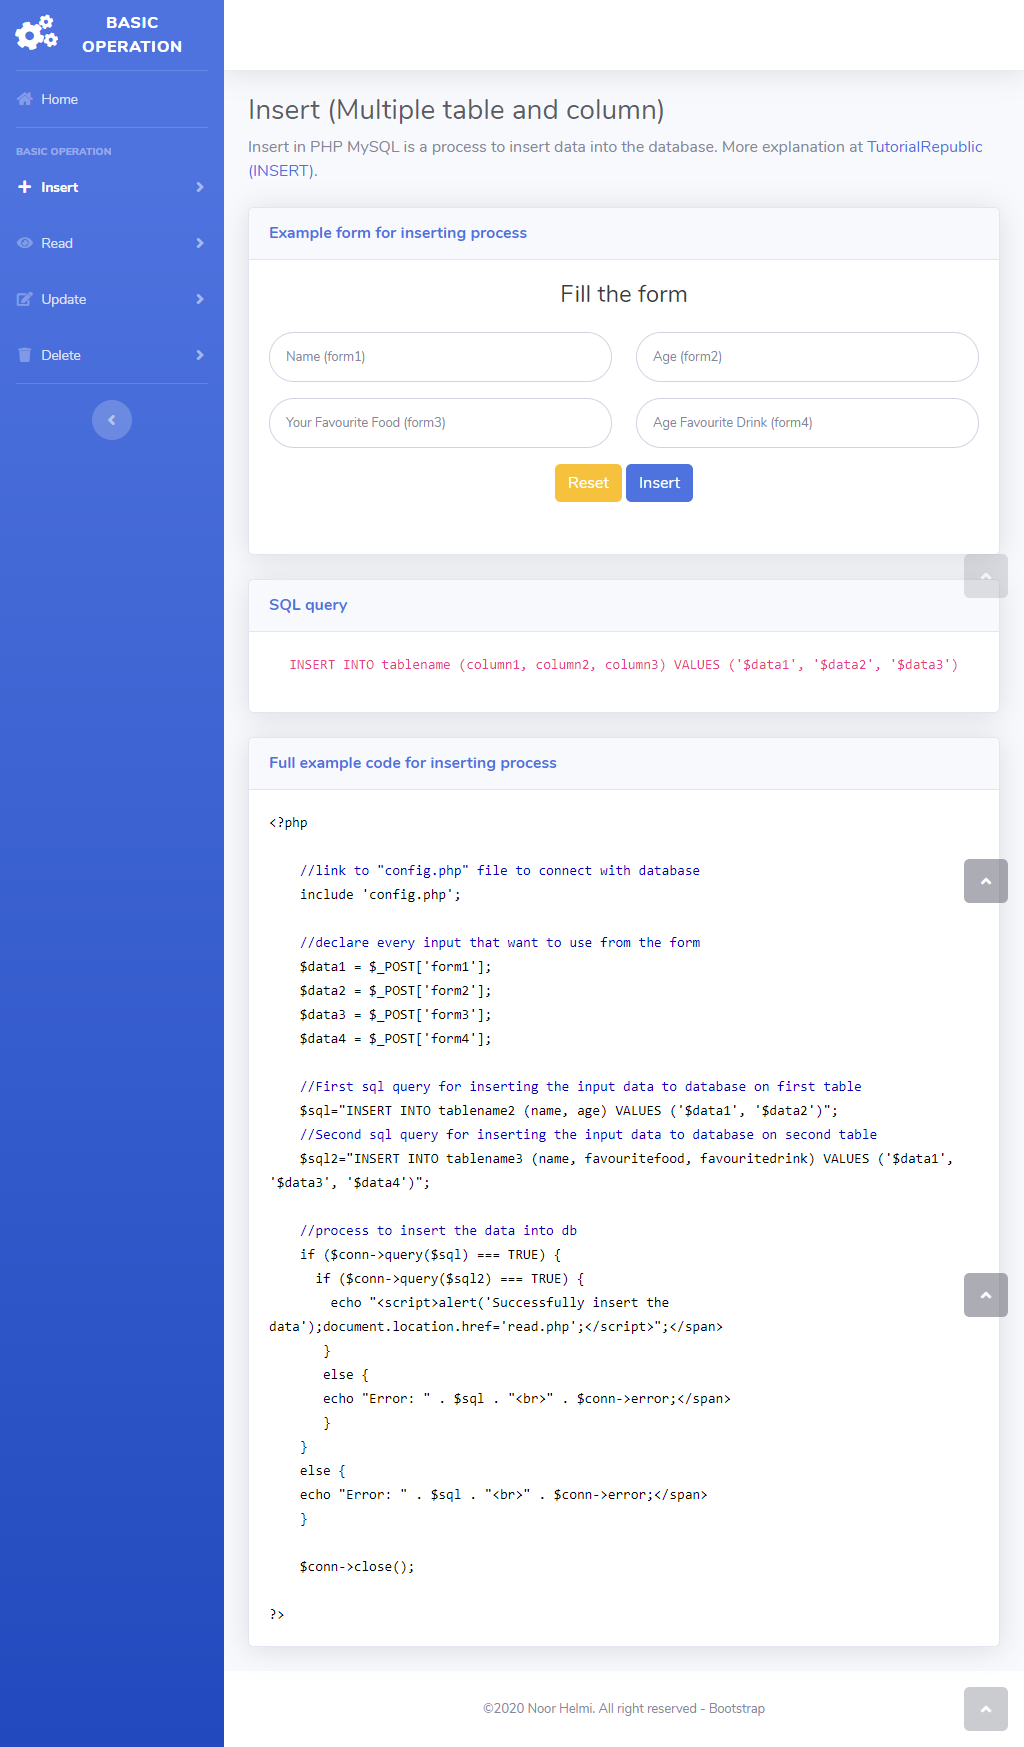
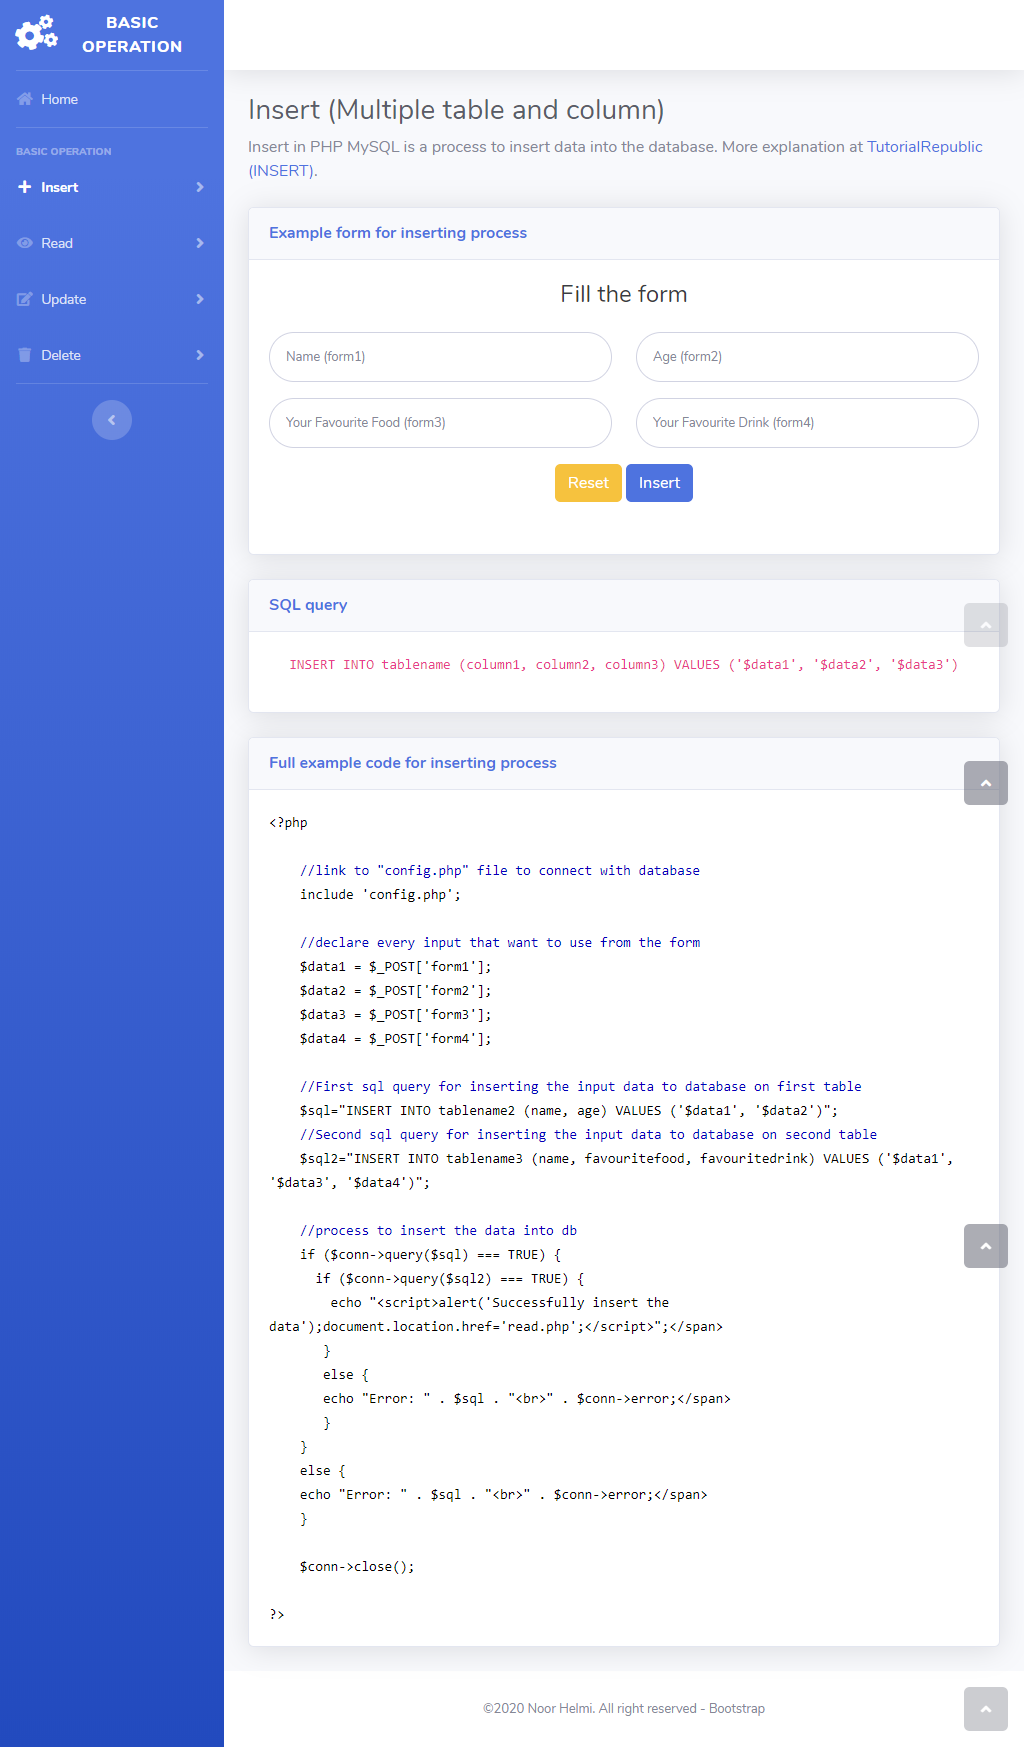
add screenshot and edit readme

diff --git a/insertMultiple.php b/insertMultiple.php
@@ -74,7 +74,7 @@
 						</div>
 						
 						<div class="col-sm-6">
-						<input type="text" class="form-control form-control-user" name="form4" placeholder="Age Favourite Drink (form4)">
+						<input type="text" class="form-control form-control-user" name="form4" placeholder="Your Favourite Drink (form4)">
 						</div>
 					</div>
 					

diff --git a/README.md b/README.md
@@ -2,63 +2,60 @@
 
 This website show you the basic operation of CRUD (Create, Retrieve, Update and Delete) for PHP.
 
-## Preview
+## Homepage
 
-[![Homepage](https://github.com/NoorHelmi22/Basic-CRUD-for-PHP/tree/master/img/PHP.png?raw=true)]
-![alt text](https://github.com/[username]/[reponame]/blob/[branch]/image.jpg?raw=true)(https://startbootstrap.github.io/startbootstrap-sb-admin-2/)
+![Homepage](https://github.com/NoorHelmi22/Basic-CRUD-for-PHP/blob/master/img/screenshot/home.png?raw=true)
 
-**[Launch Live Preview](https://startbootstrap.github.io/startbootstrap-sb-admin-2/)**
+## Insert (Create) for single table and column
 
-## Status
+Insert page that use only one table and column in database.
 
-[![GitHub license](https://img.shields.io/badge/license-MIT-blue.svg)](https://raw.githubusercontent.com/StartBootstrap/startbootstrap-sb-admin-2/master/LICENSE)
-[![npm version](https://img.shields.io/npm/v/startbootstrap-sb-admin-2.svg)](https://www.npmjs.com/package/startbootstrap-sb-admin-2)
-[![Build Status](https://travis-ci.org/StartBootstrap/startbootstrap-sb-admin-2.svg?branch=master)](https://travis-ci.org/StartBootstrap/startbootstrap-sb-admin-2)
-[![dependencies Status](https://david-dm.org/StartBootstrap/startbootstrap-sb-admin-2/status.svg)](https://david-dm.org/StartBootstrap/startbootstrap-sb-admin-2)
-[![devDependencies Status](https://david-dm.org/StartBootstrap/startbootstrap-sb-admin-2/dev-status.svg)](https://david-dm.org/StartBootstrap/startbootstrap-sb-admin-2?type=dev)
+![Homepage](https://github.com/NoorHelmi22/Basic-CRUD-for-PHP/blob/master/img/screenshot/insert1.png?raw=true)
 
-## Download and Installation
+## Insert (Create) for multiple tables and columns
 
-To begin using this template, choose one of the following options to get started:
+Insert page that use multiple tables and columns in database.
 
-* [Download the latest release on Start Bootstrap](https://startbootstrap.com/themes/sb-admin-2/)
-* Install via npm: `npm i startbootstrap-sb-admin-2`
-* Clone the repo: `git clone https://github.com/StartBootstrap/startbootstrap-sb-admin-2.git`
-* [Fork, Clone, or Download on GitHub](https://github.com/StartBootstrap/startbootstrap-sb-admin-2)
+![Homepage](https://github.com/NoorHelmi22/Basic-CRUD-for-PHP/blob/master/img/screenshot/insert2.png?raw=true)
 
-## Usage
+## Read (Retrieve) for single table and column
 
-After installation, run `npm install` and then run `npm start` which will open up a preview of the template in your default browser, watch for changes to core template files, and live reload the browser when changes are saved. You can view the `gulpfile.js` to see which tasks are included with the dev environment.
+Read page that use single table and column in database.
 
-### Gulp Tasks
+![Homepage](https://github.com/NoorHelmi22/Basic-CRUD-for-PHP/blob/master/img/screenshot/read1.png?raw=true)
 
-* `gulp` the default task that builds everything
-* `gulp watch` browserSync opens the project in your default browser and live reloads when changes are made
-* `gulp css` compiles SCSS files into CSS and minifies the compiled CSS
-* `gulp js` minifies the themes JS file
-* `gulp vendor` copies dependencies from node_modules to the vendor directory
+## Read (Retrieve) for multiple tables and columns
 
-You must have npm installed globally in order to use this build environment. This theme was built using node v11.6.0 and the Gulp CLI v2.0.1. If Gulp is not running properly after running `npm install`, you may need to update node and/or the Gulp CLI locally.
+Read page that use multiple tables and columns in database.
 
-## Bugs and Issues
+![Homepage](https://github.com/NoorHelmi22/Basic-CRUD-for-PHP/blob/master/img/screenshot/read2.png?raw=true)
 
-Have a bug or an issue with this template? [Open a new issue](https://github.com/StartBootstrap/startbootstrap-sb-admin-2/issues) here on GitHub or leave a comment on the [template overview page at Start Bootstrap](https://startbootstrap.com/themes/sb-admin-2/).
+## Update for single table and column
 
-## About
+Update page that use single table and column in database.
 
-Start Bootstrap is an open source library of free Bootstrap templates and themes. All of the free templates and themes on Start Bootstrap are released under the MIT license, which means you can use them for any purpose, even for commercial projects.
+![Homepage](https://github.com/NoorHelmi22/Basic-CRUD-for-PHP/blob/master/img/screenshot/update1.png?raw=true)
+
+## Update for multiple tables and columns
+
+Update page that use multiple tables and columns in database.
+
+![Homepage](https://github.com/NoorHelmi22/Basic-CRUD-for-PHP/blob/master/img/screenshot/update2.png?raw=true)
+
+## Delete
+
+Delete page.
+
+![Homepage](https://github.com/NoorHelmi22/Basic-CRUD-for-PHP/blob/master/img/screenshot/delete.png?raw=true)
+
+## Theme
+
+The theme for this website can be downloaded for free at
 
 * <https://startbootstrap.com>
-* <https://twitter.com/SBootstrap>
 
-Start Bootstrap was created by and is maintained by **[David Miller](http://davidmiller.io/)**.
+## Copyright
 
-* <http://davidmiller.io>
-* <https://twitter.com/davidmillerskt>
-* <https://github.com/davidtmiller>
+Developed by Noor Helmi.
 
-Start Bootstrap is based on the [Bootstrap](https://getbootstrap.com/) framework created by [Mark Otto](https://twitter.com/mdo) and [Jacob Thorton](https://twitter.com/fat).
-
-## Copyright and License
-
-Copyright 2013-2020 Start Bootstrap LLC. Code released under the [MIT](https://github.com/StartBootstrap/startbootstrap-resume/blob/gh-pages/LICENSE) license.
+©2020 Noor Helmi. All right reserved - Bootstrap
